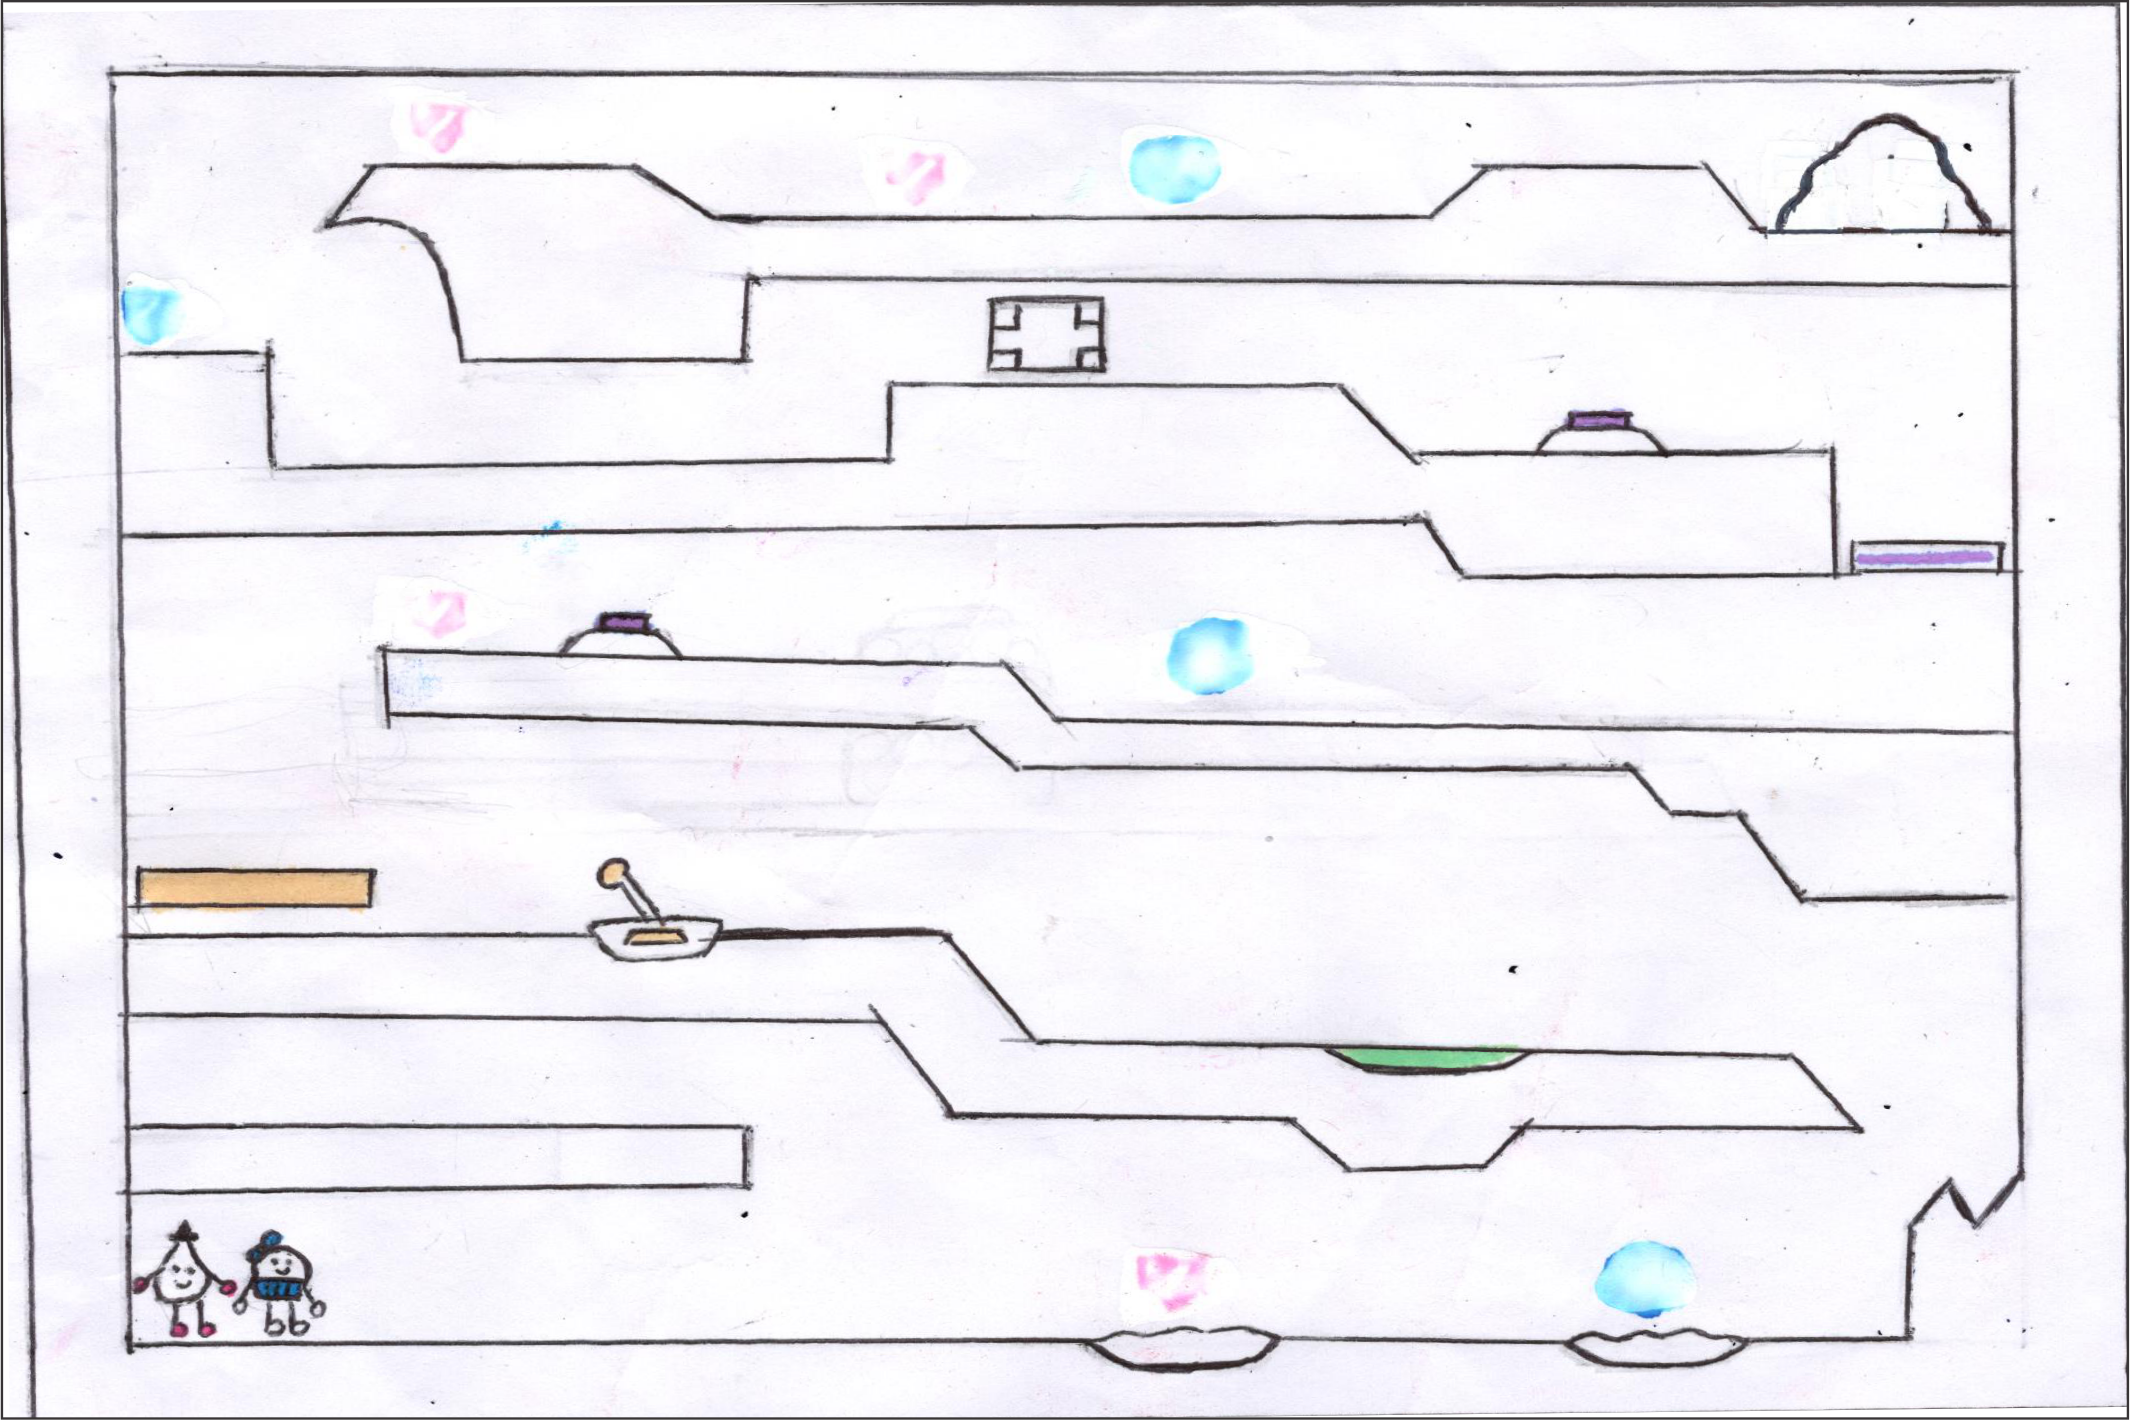
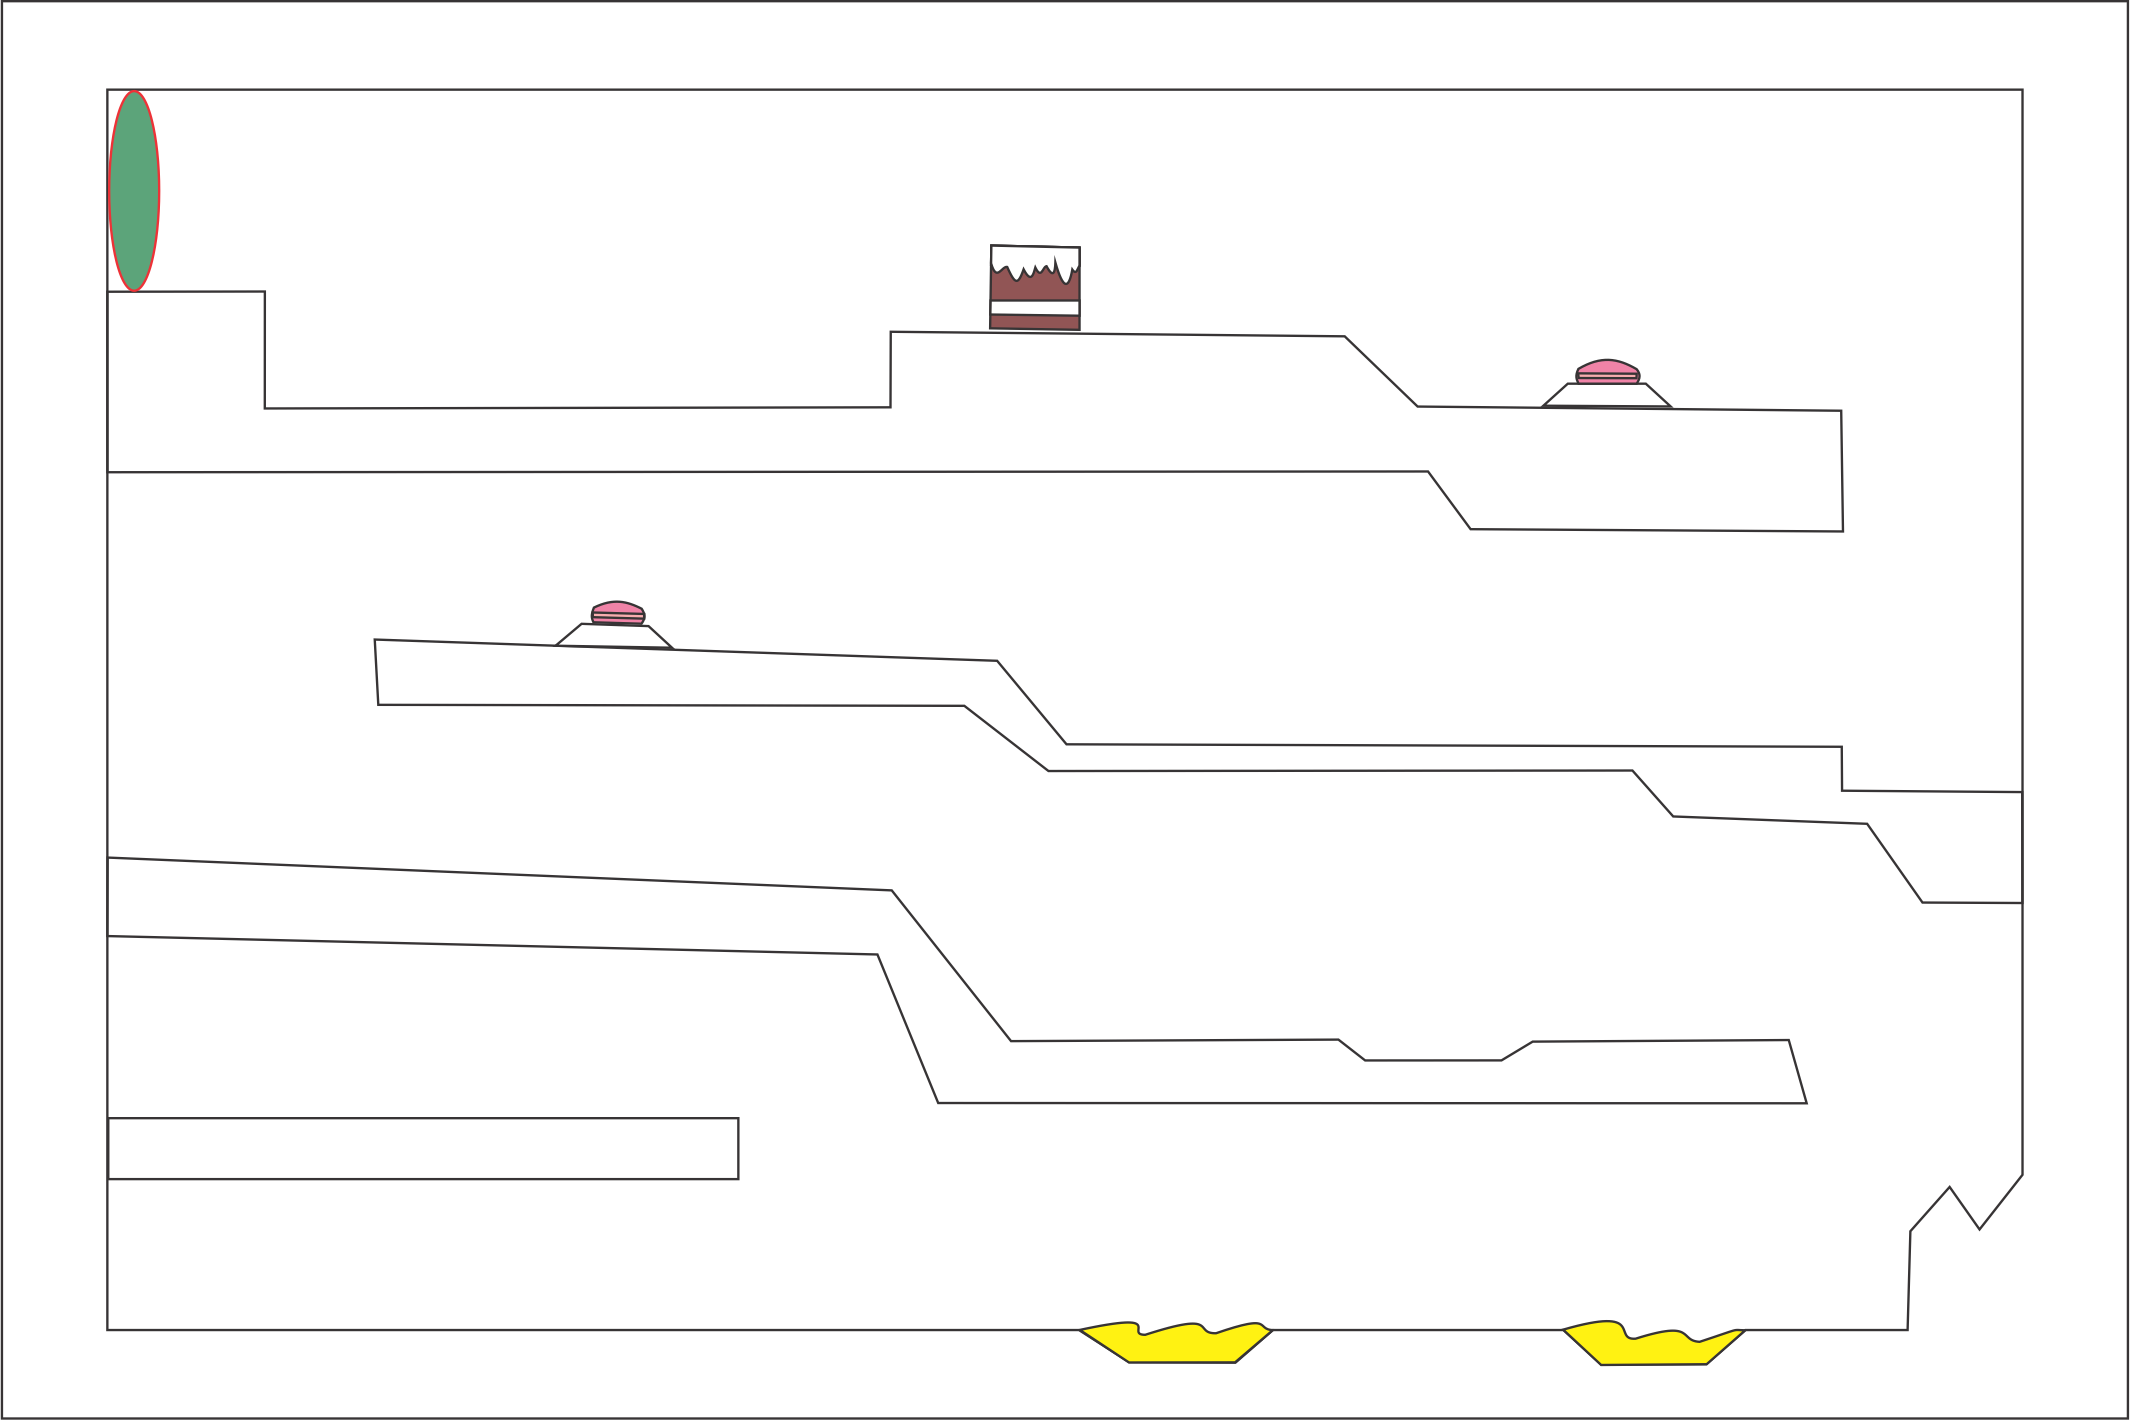
colisões ajustadas

diff --git a/src/app/game/game/game.component.ts b/src/app/game/game/game.component.ts
@@ -1,14 +1,11 @@
 import { Position } from './../models';
 import {
   GRAVITY,
-  TIME_GRAVITY,
   FIGURE_DIMENSION,
   FIGURE_POSITIONS,
   JUMP_HEIGHT,
   FIGURE_STEP,
   FIGURE_QT,
-  CENARIO,
-  JUMP_STEP,
 } from './../settings';
 import {
   Component,
@@ -19,6 +16,7 @@ import {
 } from '@angular/core';
 import { Player } from '../models';
 import { PLAYER_DIMENSION, VELOCITY } from '../settings';
+import { CENARIO } from '../cenarios';
 
 type MovementKeys = {
   [key: string]: string;
@@ -51,7 +49,7 @@ export class GameComponent implements OnInit {
     name: '',
     player: 1,
     type: 'salgado',
-    direction: { horizontal: 'left', vertical: 'down' },
+    direction: { horizontal: 'right', vertical: 'down' },
     running: false,
     jumping: false,
     spriteNumber: 0,
@@ -62,7 +60,7 @@ export class GameComponent implements OnInit {
     extraLife: 1,
   };
 
-  play = false;
+  play = true;
   positionsInterval: any;
 
   @HostListener('body:keydown.space', ['$event']) onKeyDownSpace =
@@ -103,16 +101,8 @@ export class GameComponent implements OnInit {
     this.sprites.src = './assets/img/SPRITES.png';
     this.cenarios.src = './assets/img/cenarios/fase1.png';
     this.context = this.game.nativeElement.getContext('2d');
-    let maxX = this.game.nativeElement.width - PLAYER_DIMENSION.width;
-    let maxY = this.game.nativeElement.height - PLAYER_DIMENSION.height;
-    this.player1.position = {
-      x: Math.floor(Math.random() * maxX),
-      y: Math.floor(Math.random() * maxY),
-    };
-    this.player2.position = {
-      x: Math.floor(Math.random() * maxX),
-      y: Math.floor(Math.random() * maxY),
-    };
+    this.player1.position = {x: 42, y: 400};
+    this.player2.position = {x: 75, y: 400};
     this.loop();
   }
 
@@ -155,41 +145,72 @@ export class GameComponent implements OnInit {
   stopMovement(key: string) {
     if (key in this.movementKeysPlayer1) {
       this.player1.running = false;
-      this.player1.jumping = false;
+      this.player1.direction.vertical = 'down';
     } else if (key in this.movementKeysPlayer2) {
       this.player2.running = false;
-      this.player2.jumping = false;
+      this.player2.direction.vertical = 'down';
     }
   }
 
-  collidedLine(player: Player, position1: Position, position2: Position) {
+  collidedLine(player: Player, position1: Position, position2: Position, direction: string) {
     let p1 = {x: player.position.x, y: player.position.y};
     let p2 = {x: player.position.x + PLAYER_DIMENSION.width, y: player.position.y};
     let p3 = {x: player.position.x  + PLAYER_DIMENSION.width, y: player.position.y + PLAYER_DIMENSION.height};
     let p4 = {x: player.position.x, y: player.position.y + PLAYER_DIMENSION.height};
-    let topMidpoint = {x: (p1.x + p2.x)/2, y: p1.y};
-    let bottonMidpoint = {x: (p3.x + p4.x)/2, y: p3.y};
-    let leftMidpoint = {x: p1.x, y: (p1.y + p4.y)/2};
-    let rightMidpoint = {x: p2.x, y: (p2.y + p3.y)/2};
+    let midpoint = {x: (p1.x + p2.x)/2, y: (p1.y + p4.y)/2};
     let playerPoints = [p1, p2, p3, p4];
 
-    for (let i in playerPoints) {
-      let point = playerPoints[i];
-      let betweenPositions = (position1.x < point.x && point.x < position2.x) || (position1.x > point.x && point.x > position2.x);
+    if (direction == 'vertical') {
+      for (let i in playerPoints) {
+        let point = playerPoints[i];
+
+
+          let betweenPositions = (position1.x < point.x && point.x < position2.x) || (position1.x > point.x && point.x > position2.x);
+
+          if (betweenPositions) {
+            let y = position1.y + ((position2.y - position1.y) * (point.x - position1.x)) / (position2.x - position1.x);
+
+            if ((p1.y < y && y < midpoint.y) || (p2.y < y && y < midpoint.y)) {
+              player.direction.vertical = 'down';
+              break
+            } else if ((p4.y >= y && y > midpoint.y) || (p3.y >= y && y > midpoint.y)) {
+              player.position.y = y - PLAYER_DIMENSION.height;
+              return true
+            }
+          }
+        }
+    } else if (direction == 'horizontal' && position1.x == position2.x) {
+      let betweenPositions = (position1.y < p1.y && p1.y < position2.y) || (position1.y > p1.y && p1.y > position2.y) ||
+                             (position1.y < p4.y && p4.y < position2.y) || (position1.y >= p4.y && p4.y > position2.y);
 
       if (betweenPositions) {
-        if (betweenPositions){
-            let y = position1.y;
-            if (position1.y != position2.y) {
-              y = position1.y + ((position2.y - position1.y) * (player.position.x - position1.x)) /
-                    (position2.x - position1.x);
-            }
-
-            // if (player)
-          }
-
+        let x = position1.x;
+        if ((p1.x < x && x < midpoint.x) || (p4.x < x && x < midpoint.x)) {
+          player.position.x = x;
+          return true
+        } else if ((p2.x > x && x > midpoint.x) || (p3.x > x && x > midpoint.x)) {
+          player.position.x = x - PLAYER_DIMENSION.width;
+          return true
+        }
       }
     }
+    return false
+  }
+
+  collidedX(player: Player) {
+    let collided = false;
+    CENARIO[0].elements.forEach((item) => {
+      for (let i = 0; i < item.length - 1; i++) {
+        let position1 = {x: item[i].x, y:  item[i].y};
+        let position2 = {x: item[i+1].x, y:  item[i+1].y};
+
+        if (this.collidedLine(player, position1, position2, 'horizontal')) {
+          collided = true;
+          break
+        }
+      }
+    });
+    return collided;
   }
 
   collidedY(player: Player) {
@@ -199,7 +220,10 @@ export class GameComponent implements OnInit {
         let position1 = {x: item[i].x, y:  item[i].y};
         let position2 = {x: item[i+1].x, y:  item[i+1].y};
 
-        this.collidedLine(player, position1, position2)
+        if (this.collidedLine(player, position1, position2, 'vertical')) {
+          collided = true;
+          break
+        }
       }
     });
     return collided;
@@ -214,7 +238,7 @@ export class GameComponent implements OnInit {
   }
 
   setPlayerPositionX(player: Player) {
-    if (player.running || player.jumping) {
+    if (player.running) {
       let position = player.position.x;
       if (player.direction.horizontal  == 'right') {
         position += VELOCITY;
@@ -230,6 +254,7 @@ export class GameComponent implements OnInit {
         player.spriteNumber =
           Math.floor(player.position.x / FIGURE_STEP) % FIGURE_QT;
       }
+      this.collidedX(player)
     }
   }
 
@@ -246,8 +271,11 @@ export class GameComponent implements OnInit {
     if (player.position.y >= this.game.nativeElement.height - PLAYER_DIMENSION.height) {
       player.position.y = this.game.nativeElement.height - PLAYER_DIMENSION.height;
     } else {
-      this.collidedY(player);
-      player.position.y += GRAVITY;
+      if (!this.collidedY(player)) {
+        player.position.y += GRAVITY;
+      } else {
+        player.jumping = false;
+      }
     }
   }
 

diff --git a/src/app/game/settings.ts b/src/app/game/settings.ts
@@ -5,7 +5,7 @@ type SpritePosition = {
 
 
 export const VELOCITY = 5;
-export const PLAYER_DIMENSION = {width: 32.5, height: 55};
+export const PLAYER_DIMENSION = {width: 32.5, height: 50};
 export const FIGURE_DIMENSION = {width: 200, height: 331};
 export const FIGURE_QT = 6;
 export const FIGURE_STEP = 30;
@@ -14,20 +14,6 @@ export const FIGURE_POSITIONS: SpritePosition = {
   left: [1200, 1400, 1600, 1800, 2000, 2200],
   y: [1, 331]
 };
-export const CENARIO = [
-  {
-    width:2130,
-    height: 1420,
-    elements: [
-      [
-        {x:42, y:475}, {x:385, y:475}, {x:400, y:480}, {x:443, y:480}, {x:450, y:472}, {x:550, y:472}, {x:560, y:480}, {x:605, y:480},
-        {x:615, y:472}, {x:670, y:472}, {x:670, y:431}, {x:680, y:421}, {x:688, y:440},
-      ],
-    ]
-  },
-];
 export const DIRECTIONS = ['right', 'left'];
 export const GRAVITY = 5;
-export const TIME_GRAVITY = 1000/30;
 export const JUMP_HEIGHT = 100;
-export const JUMP_STEP = 5;

diff --git a/src/app/game/cenarios.ts b/src/app/game/cenarios.ts
@@ -1,0 +1,20 @@
+export const CENARIO = [
+  {
+    width:2130,
+    height: 1420,
+    elements: [
+      [
+        {x:37, y:470}, {x:380, y:470}, {x:400, y:480}, {x:435, y:480}, {x:448, y:470}, {x:551, y:470}, {x:561, y:480}, {x:603, y:480},
+        {x:613, y:470}, {x:672, y:470}, {x:672, y:433}, {x:685, y:418}, {x:696, y:433}, {x:712, y:412}, {x:712, y:30}, {x:37, y:30},
+        {x:37, y:470},
+      ],
+      [
+        {x:37, y:395}, {x:260, y:395}, {x:260, y:415}, {x:37, y:415}
+      ],
+      [
+        {x:37, y:302}, {x:315, y:315}, {x:356, y:365}, {x:468, y:365}, {x:480, y:375}, {x:530, y:375}, {x:540, y:365}, {x:628, y:365},
+        {x:635, y:390}, {x:333, y:390}, {x:309, y:335}, {x:37, y:330},
+      ],
+    ]
+  },
+];
